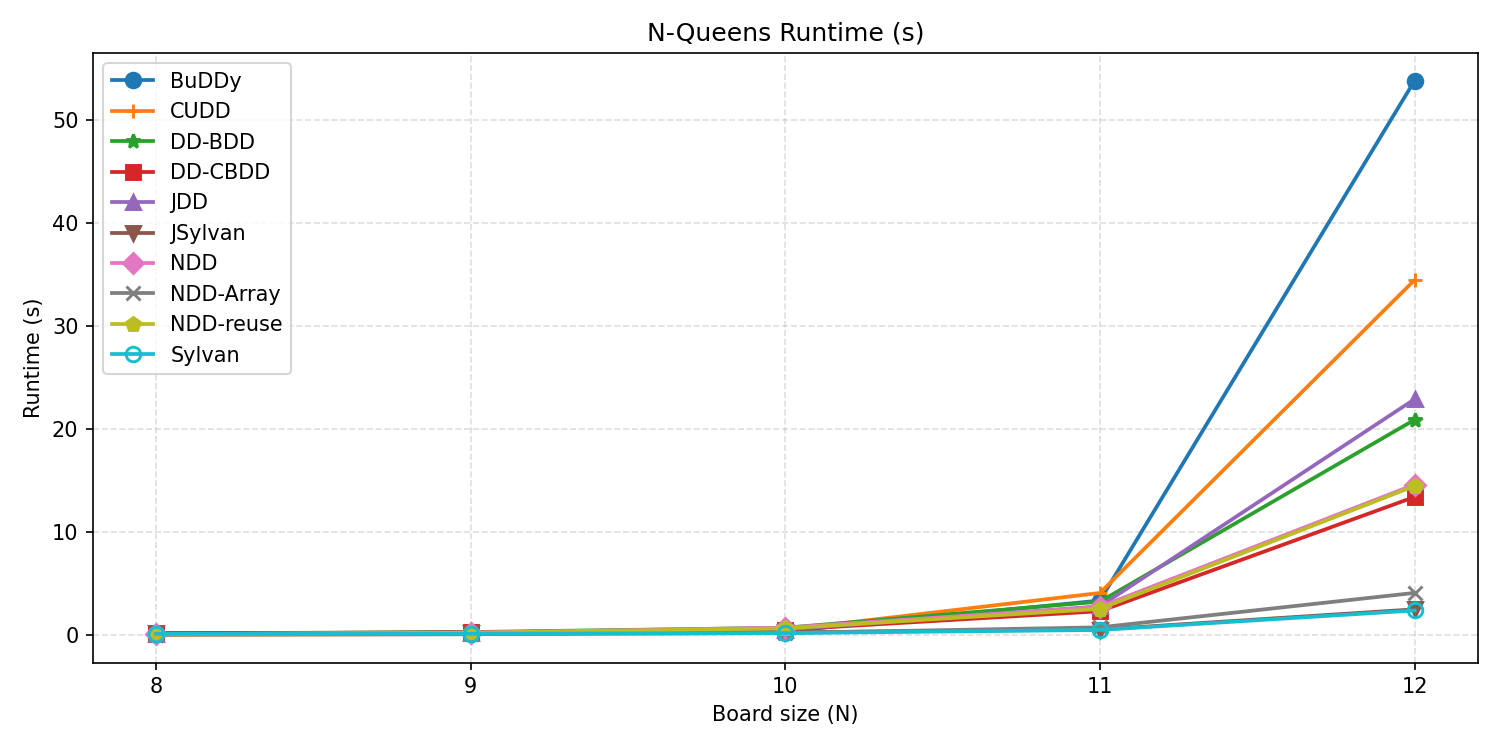
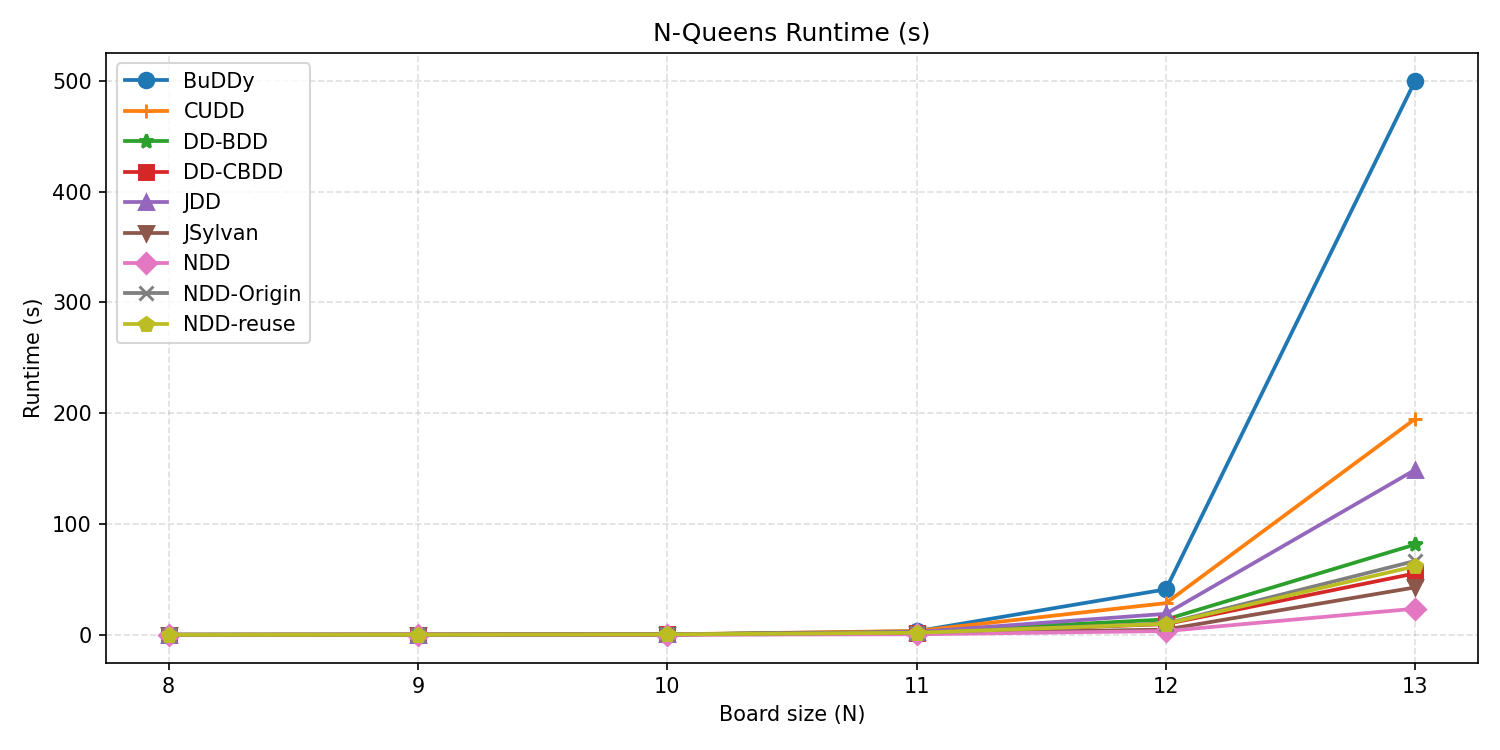
docs(results): update NQueens benchmark results
Refresh nqueens_metrics.csv and the result plots, add the N=13 row and the N=12 label-backend (BDD/ZDD/BCDD) comparison in the README, and add results/nqueens_backend_results.md.

diff --git a/results/nqueens_backend_results.md b/results/nqueens_backend_results.md
@@ -1,0 +1,78 @@
+# N-Queens Backend Results
+
+These results compare plain decision diagram baselines and NDD using different edge-label backends.
+
+Targets:
+
+- `bdd`: plain BDD baseline
+- `zdd`: plain ZDD baseline
+- `bcdd`: plain complemented-edge BDD baseline
+- `ndd-bdd`: NDD with standard BDD edge labels
+- `ndd-zdd`: NDD with finite-domain ZDD edge labels
+- `ndd-bcdd`: NDD with complemented-edge BDD edge labels
+
+## N = 8
+
+| target | solutions | time (s) | memory (MB) | nodes created | nodes alive |
+| --- | ---: | ---: | ---: | ---: | ---: |
+| bdd | 92 | 0.0330 | 58.9 | 52,474 | 2,451 |
+| zdd | 92 | 0.0125 | 50.2 | 21,107 | 373 |
+| bcdd | 92 | 0.0878 | 83.2 | 52,412 | 2,450 |
+| ndd-bdd| 92 | 0.0377 | 61.3 | 10,797 | 600 |
+| ndd-zdd | 92 | 0.0342 | 64.9 | 9,067 | 451 |
+| ndd-bcdd | 92 | 0.0363 | 60.8 | 10,823 | 1,312 |
+
+## N = 9
+
+| target | solutions | time (s) | memory (MB) | nodes created | nodes alive |
+| --- | ---: | ---: | ---: | ---: | ---: |
+| bdd | 352 | 0.1009 | 62.4 | 216,443 | 9,557 |
+| zdd | 352 | 0.0483 | 61.3 | 81,984 | 1,309 |
+| bcdd | 352 | 0.3326 | 210.6 | 216,215 | 9,556 |
+| ndd-bdd| 352 | 0.0696 | 71.4 | 29,451 | 1,364 |
+| ndd-zdd | 352 | 0.0632 | 65.8 | 26,578 | 1,178 |
+| ndd-bcdd | 352 | 0.0699 | 77.5 | 29,485 | 2,773 |
+
+## N = 10
+
+| target | solutions | time (s) | memory (MB) | nodes created | nodes alive |
+| --- | ---: | ---: | ---: | ---: | ---: |
+| bdd | 724 | 0.3264 | 68.5 | 955,575 | 25,945 |
+| zdd | 724 | 0.1636 | 68.2 | 343,536 | 3,120 |
+| bcdd | 724 | 1.4544 | 690.3 | 953,944 | 25,944 |
+| ndd-bdd| 724 | 0.1847 | 93.5 | 97,595 | 2,905 |
+| ndd-zdd | 724 | 0.1651 | 97.5 | 92,654 | 2,680 |
+| ndd-bcdd | 724 | 0.1847 | 101.7 | 97,638 | 5,675 |
+
+## N = 11
+
+| target | solutions | time (s) | memory (MB) | nodes created | nodes alive |
+| --- | ---: | ---: | ---: | ---: | ---: |
+| bdd | 2,680 | 2.3780 | 94.4 | 4,691,834 | 94,822 |
+| zdd | 2,680 | 0.7121 | 80.9 | 1,552,727 | 10,503 |
+| bcdd | 2,680 | 8.6851 | 3133.5 | 4,685,028 | 94,821 |
+| ndd-bdd| 2,680 | 0.5399 | 196.3 | 398,650 | 8,579 |
+| ndd-zdd | 2,680 | 0.5556 | 207.9 | 388,606 | 8,310 |
+| ndd-bcdd | 2,680 | 0.6840 | 202.1 | 398,703 | 14,023 |
+
+## N = 12
+
+| target | solutions | time (s) | memory (MB) | nodes created | nodes alive |
+| --- | ---: | ---: | ---: | ---: | ---: |
+| bdd | 14,200 | 16.9083 | 218.2 | 24,717,257 | 435,170 |
+| zdd | 14,200 | 5.2012 | 115.6 | 7,592,039 | 45,833 |
+| bcdd | 14,200 | 20.4717 | 315.5 | 24,717,255 | 435,169 |
+| ndd-bdd| 14,200 | 3.0199 | 567.2 | 1,859,828 | 33,638 |
+| ndd-zdd | 14,200 | 2.8683 | 559.4 | 1,831,431 | 33,561 |
+| ndd-bcdd | 14,200 | 3.0480 | 742.1 | 1,859,892 | 33,637 |
+
+## N = 13
+
+| target | solutions | time (s) | memory (MB) | nodes created | nodes alive |
+| --- | ---: | ---: | ---: | ---: | ---: |
+| bdd | 73,712 | 138.8387 | 2127.1 | 136,722,638 | 2,044,394 |
+| zdd | 73,712 | 42.8324 | 212.6 | 39,087,758 | 204,781 |
+| bcdd | 73,712 | 139.4397 | 2188.9 | 136,587,014 | 2,044,393 |
+| ndd-bdd| 73,712 | 22.3243 | 2460.7 | 9,378,160 | 145,368 |
+| ndd-zdd | 73,712 | 20.9622 | 2446.8 | 9,267,948 | 145,278 |
+| ndd-bcdd | 73,712 | 22.3683 | 3212.9 | 9,378,236 | 145,367 |

diff --git a/README.md b/README.md
@@ -22,9 +22,20 @@ Run time (`second`) on different sizes of **NQueens** problem.
 | -- | --------- | ------------- | ------ |
 | 10 |    0.5479 |        0.7315 | 0.2136 |
 | 11 |    2.7947 |        2.7497 | 0.7619 |
-| 12 |   22.8852 |       14.6047 | 4.1006 |
+| 12 |   19.0108 |       10.2289 | 3.4391 |
+| 13 |  148.9701 |       66.7104 |23.6618 |
 
 Detailed benchmark results are available on [nqueensBenchmarkDDs](https://github.com/XJTU-NetVerify/nqueensBenchmarkDDs)
+
+Recent N-Queens label-backend comparison at `N=12`:
+
+| target | time (s) | memory (MB) | 
+| --- | ---: | ---: |
+| ndd-bdd | 3.0199 | 567.2 | 
+| ndd-zdd | 2.8683 | 559.4 | 
+| ndd-bcdd | 3.0480 | 742.1 | 
+
+Full backend comparison results are in [`results/nqueens_backend_results.md`](results/nqueens_backend_results.md) and the wiki.
 
 ## The Origin of NDD
 
